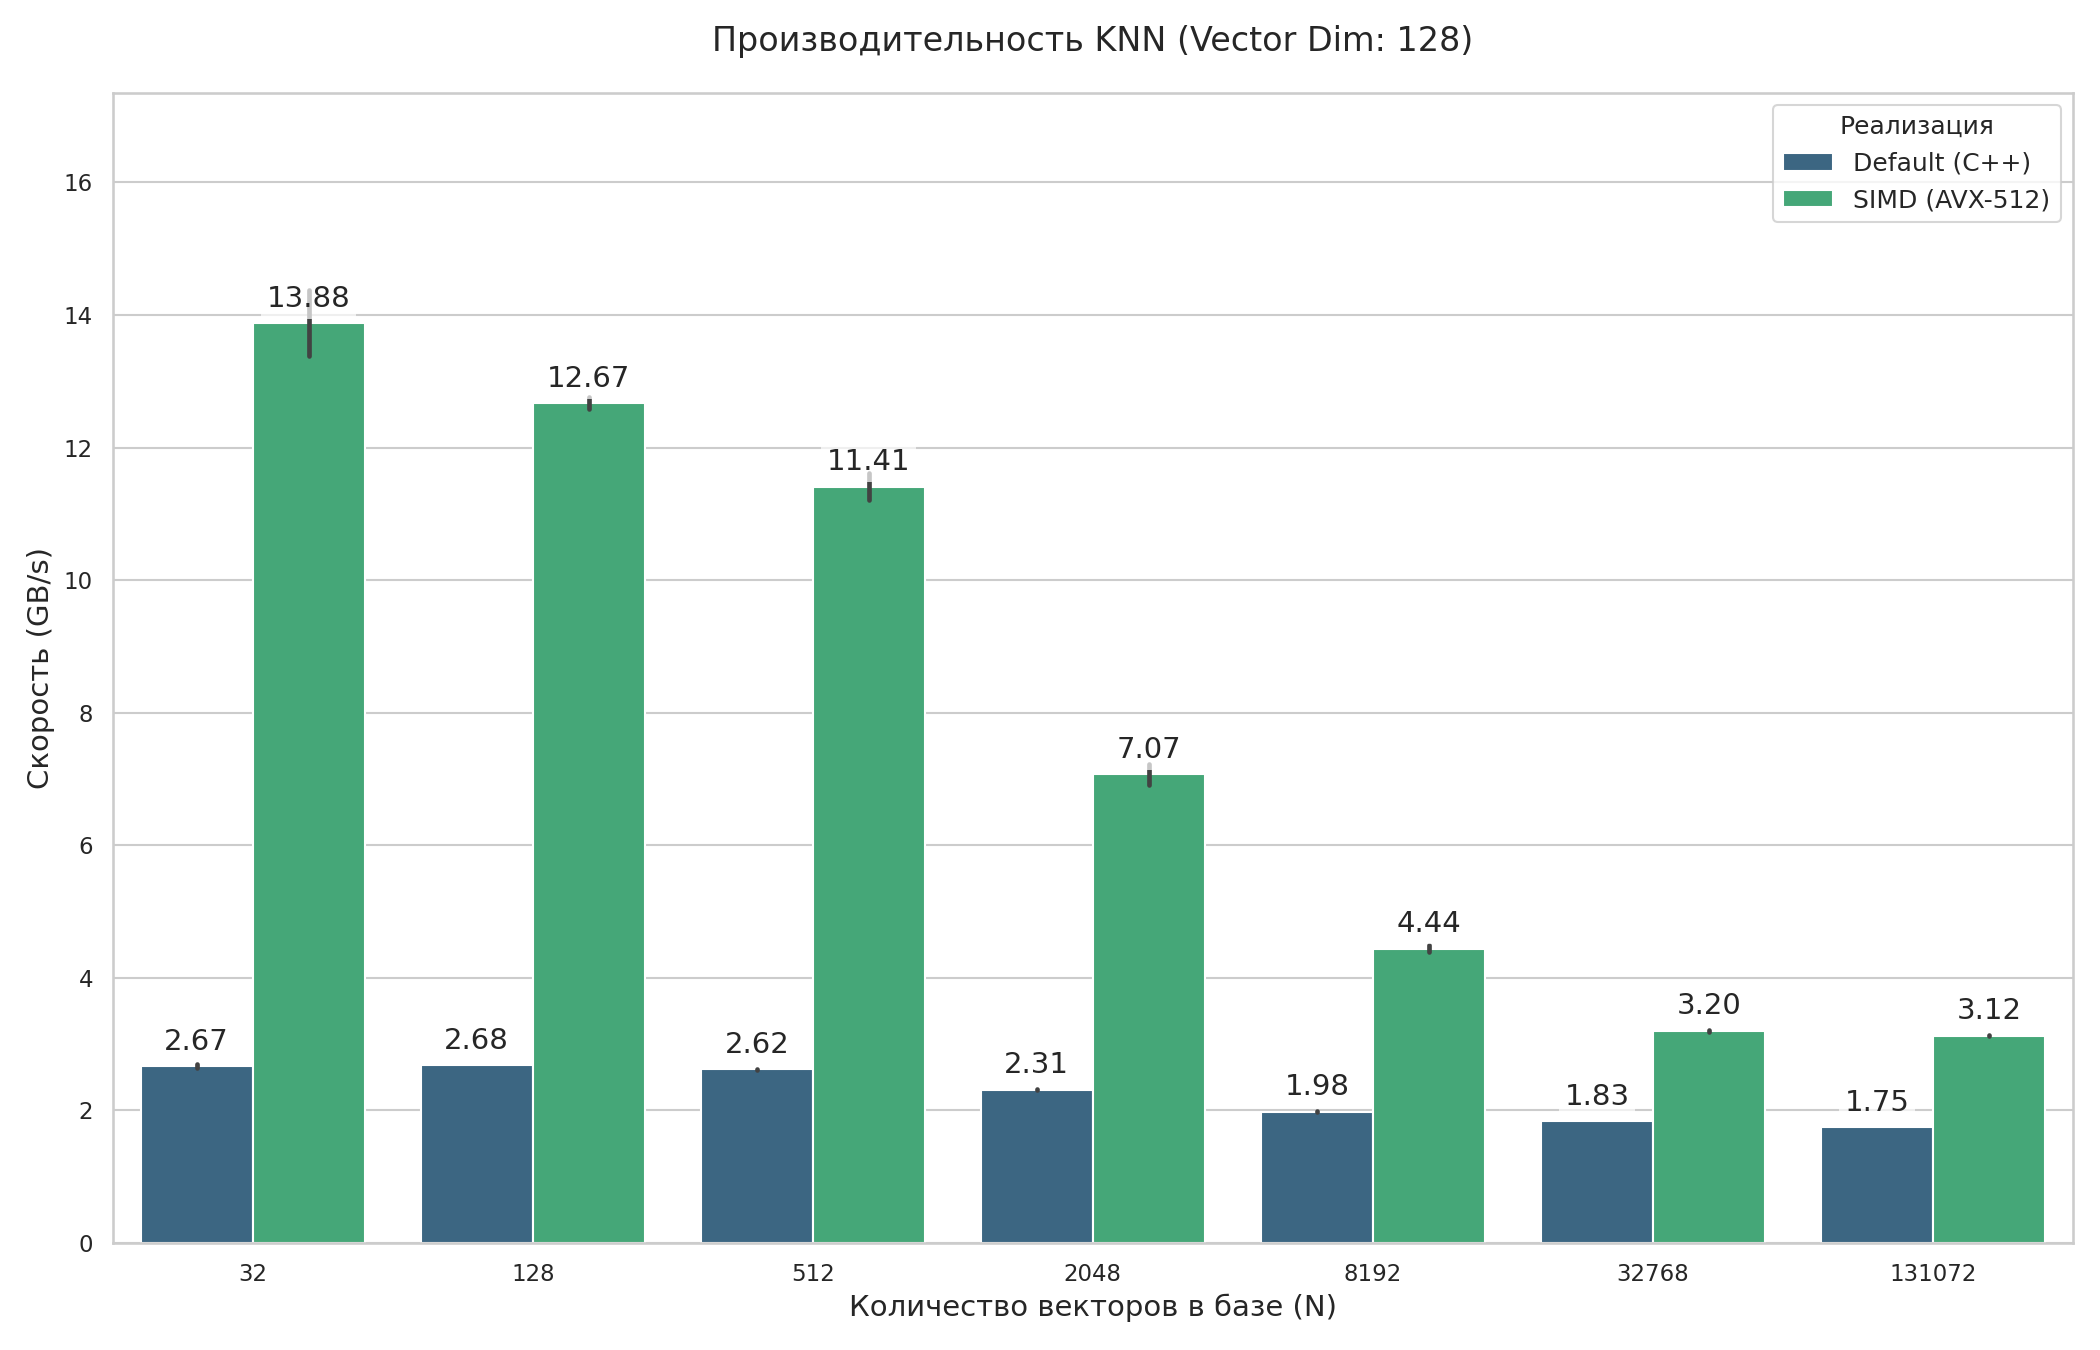
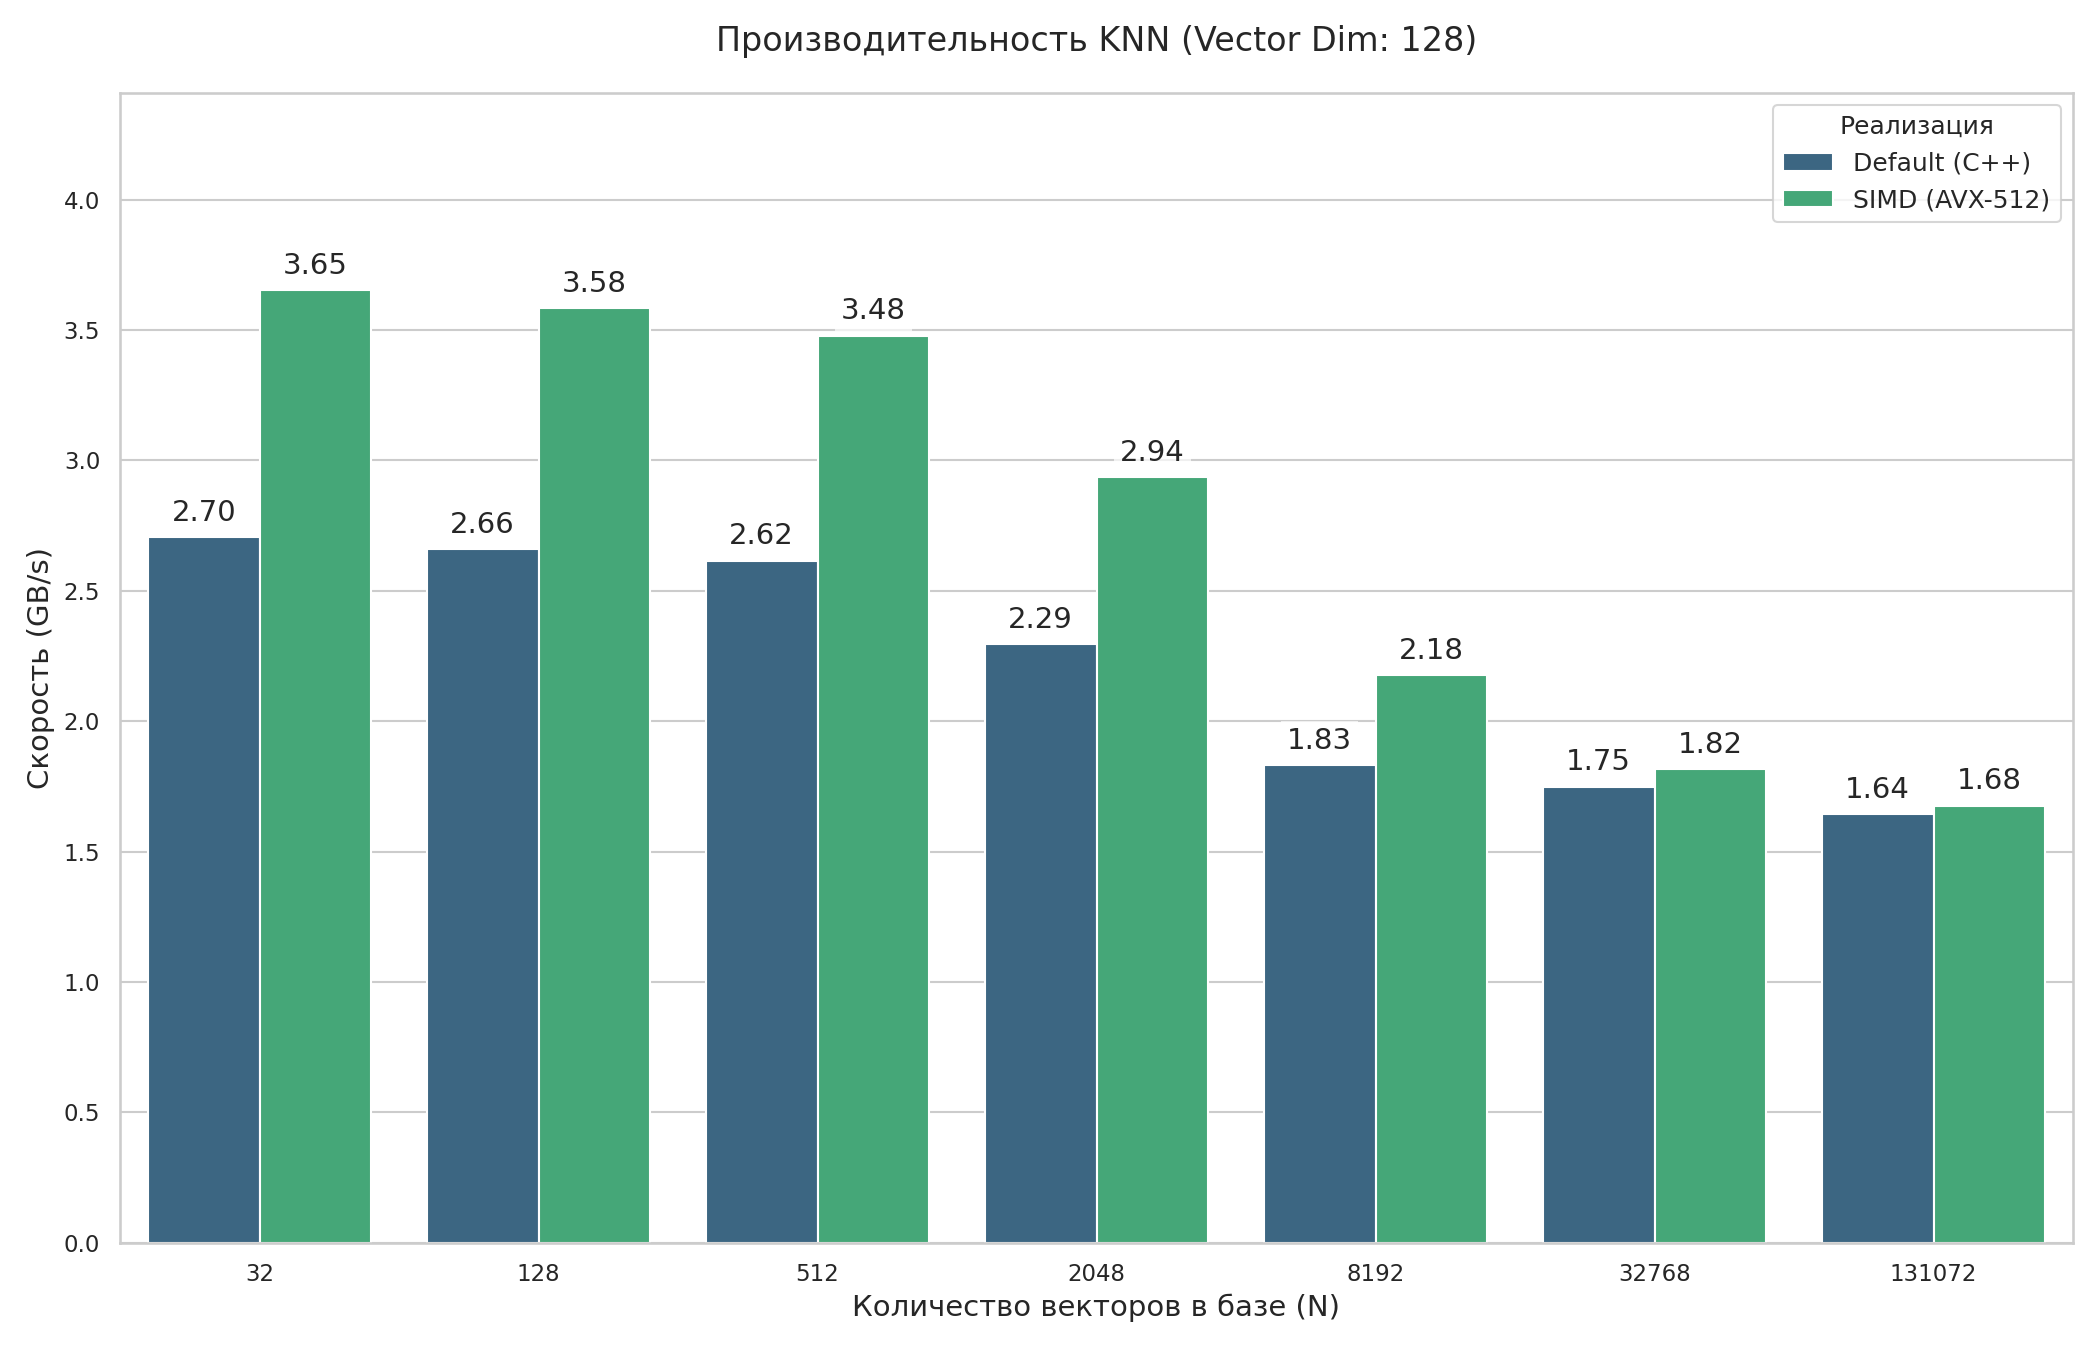
update

diff --git a/src/knn_searcher.cpp b/src/knn_searcher.cpp
@@ -139,89 +139,87 @@ std::vector<int> KnnSearcher::find_simd(
 // 4. SIMD РЕАЛИЗАЦИЯ (AVX-512) сразу несколько элементов в массиве
 // --------------------------------------------------------------------
 
+inline __m512 kernel_16_vectors(
+    const float* const* ptrs, 
+    const float* qptr,        
+    size_t dim
+) {
+    __m512 sum = _mm512_setzero_ps();
+
+    alignas(64) float slice[16];
+
+    for (size_t d = 0; d < dim; ++d) {
+        for (int lane = 0; lane < 16; ++lane) {
+            slice[lane] = ptrs[lane][d];
+        }
+
+        __m512 v_dim = _mm512_load_ps(slice);
+        
+        __m512 v_query = _mm512_set1_ps(qptr[d]);
+        __m512 diff = _mm512_sub_ps(v_dim, v_query);
+        sum = _mm512_fmadd_ps(diff, diff, sum);
+    }
+
+    return _mm512_sqrt_ps(sum);
+}
+
 std::vector<int> KnnSearcher::find_simd_soa(
     const std::vector<std::vector<float>>& dataset,
     const std::vector<float>& query,
     int k
 ) {
-    const size_t N   = dataset.size();
+    const size_t N = dataset.size();
     const size_t dim = query.size();
-
     std::vector<int> result;
-    if (N == 0 || dim == 0 || k <= 0) {
-        return result;
-    }
-
-    // Временный SoA-буфер: [dim0 всех точек][dim1 всех точек]...
-    std::vector<float> data_soa;
-    data_soa.resize(N * dim);
-
-    for (size_t i = 0; i < N; ++i) {
-        const std::vector<float>& v = dataset[i];
-        // при желании можно добавить assert(v.size() == dim);
-        const float* src = v.data();
-        for (size_t d = 0; d < dim; ++d) {
-            data_soa[d * N + i] = src[d];
-        }
-    }
+    
+    if (N == 0 || dim == 0 || k <= 0) return result;
 
     const float* qptr = query.data();
-
-    std::vector<std::pair<float,int>> distances;
+    
+    std::vector<std::pair<float, int>> distances;
     distances.reserve(N);
 
-    alignas(64) float block_dist[16];
+    alignas(64) float block_dists[16];
+    const float* ptrs[16];
 
     size_t i = 0;
-    // Основные блоки по 16 точек
+    // Главный цикл: шаг 16 векторов
     for (; i + 16 <= N; i += 16) {
-        __mmask16 mask = 0xFFFF;
-        __m512 sum = _mm512_setzero_ps();
-
-        for (size_t d = 0; d < dim; ++d) {
-            const float* base = data_soa.data() + d * N + i; // 16 значений d-ой координаты
-            __m512 x = _mm512_maskz_loadu_ps(mask, base);
-            __m512 q = _mm512_set1_ps(qptr[d]);              // broadcast query[d]
-            __m512 diff = _mm512_sub_ps(x, q);
-            sum = _mm512_fmadd_ps(diff, diff, sum);          // sum += diff * diff
+        for (int j = 0; j < 16; ++j) {
+            ptrs[j] = dataset[i + j].data();
         }
 
-        __m512 res = _mm512_sqrt_ps(sum);
-        _mm512_store_ps(block_dist, res);
+        __m512 res_vec = kernel_16_vectors(ptrs, qptr, dim);
+        _mm512_store_ps(block_dists, res_vec);
 
-        for (int lane = 0; lane < 16; ++lane) {
-            distances.emplace_back(block_dist[lane], int(i + lane));
+        for (int j = 0; j < 16; ++j) {
+            distances.emplace_back(block_dists[j], (int)(i + j));
         }
     }
 
-    // Хвост < 16 точек
+    // Обработка остатка (tail case)
     if (i < N) {
-        unsigned rem = static_cast<unsigned>(N - i);
-        __mmask16 mask = (__mmask16)((1u << rem) - 1u);
-
-        __m512 sum = _mm512_setzero_ps();
-
-        for (size_t d = 0; d < dim; ++d) {
-            const float* base = data_soa.data() + d * N + i;
-            __m512 x = _mm512_maskz_loadu_ps(mask, base);
-            __m512 q = _mm512_set1_ps(qptr[d]);
-            __m512 diff = _mm512_sub_ps(x, q);
-            sum = _mm512_fmadd_ps(diff, diff, sum);
+        size_t remaining = N - i;
+        for (size_t j = 0; j < remaining; ++j) {
+            ptrs[j] = dataset[i + j].data();
+        }
+        for (size_t j = remaining; j < 16; ++j) {
+            ptrs[j] = ptrs[0]; 
         }
 
-        __m512 res = _mm512_sqrt_ps(sum);
-        _mm512_mask_storeu_ps(block_dist, mask, res);
+        __m512 res_vec = kernel_16_vectors(ptrs, qptr, dim);
+        _mm512_store_ps(block_dists, res_vec);
 
-        for (unsigned lane = 0; lane < rem; ++lane) {
-            distances.emplace_back(block_dist[lane], int(i + lane));
+        for (size_t j = 0; j < remaining; ++j) {
+            distances.emplace_back(block_dists[j], (int)(i + j));
         }
     }
 
     std::sort(distances.begin(), distances.end());
 
     result.reserve(k);
-    for (int idx = 0; idx < k && idx < static_cast<int>(distances.size()); ++idx) {
-        result.push_back(distances[idx].second);
+    for (int j = 0; j < k && j < (int)distances.size(); ++j) {
+        result.push_back(distances[j].second);
     }
 
     return result;

diff --git a/knn_main.cpp b/knn_main.cpp
@@ -87,7 +87,7 @@ static void CustomArguments(benchmark::internal::Benchmark* b) {
     }
 
     // 3. K ближайших: от 1 до 32 (используем степени двойки для покрытия диапазона)
-    std::vector<int> ks = {1, 8, 32};
+    std::vector<int> ks = {1};
 
     for (int s : sizes) {
         for (int d : dims) {
